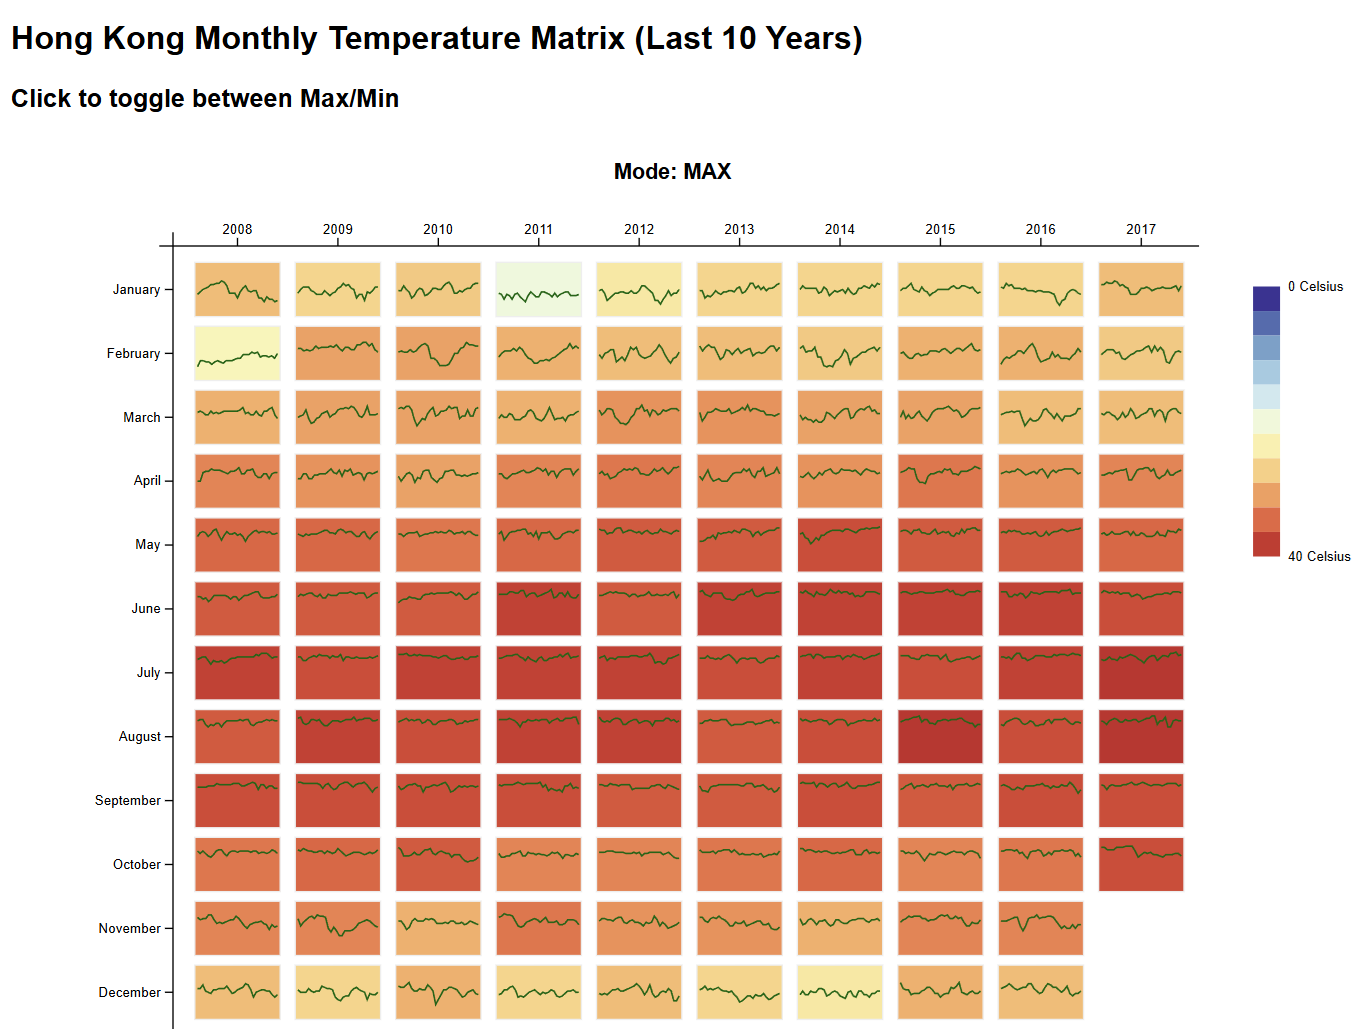
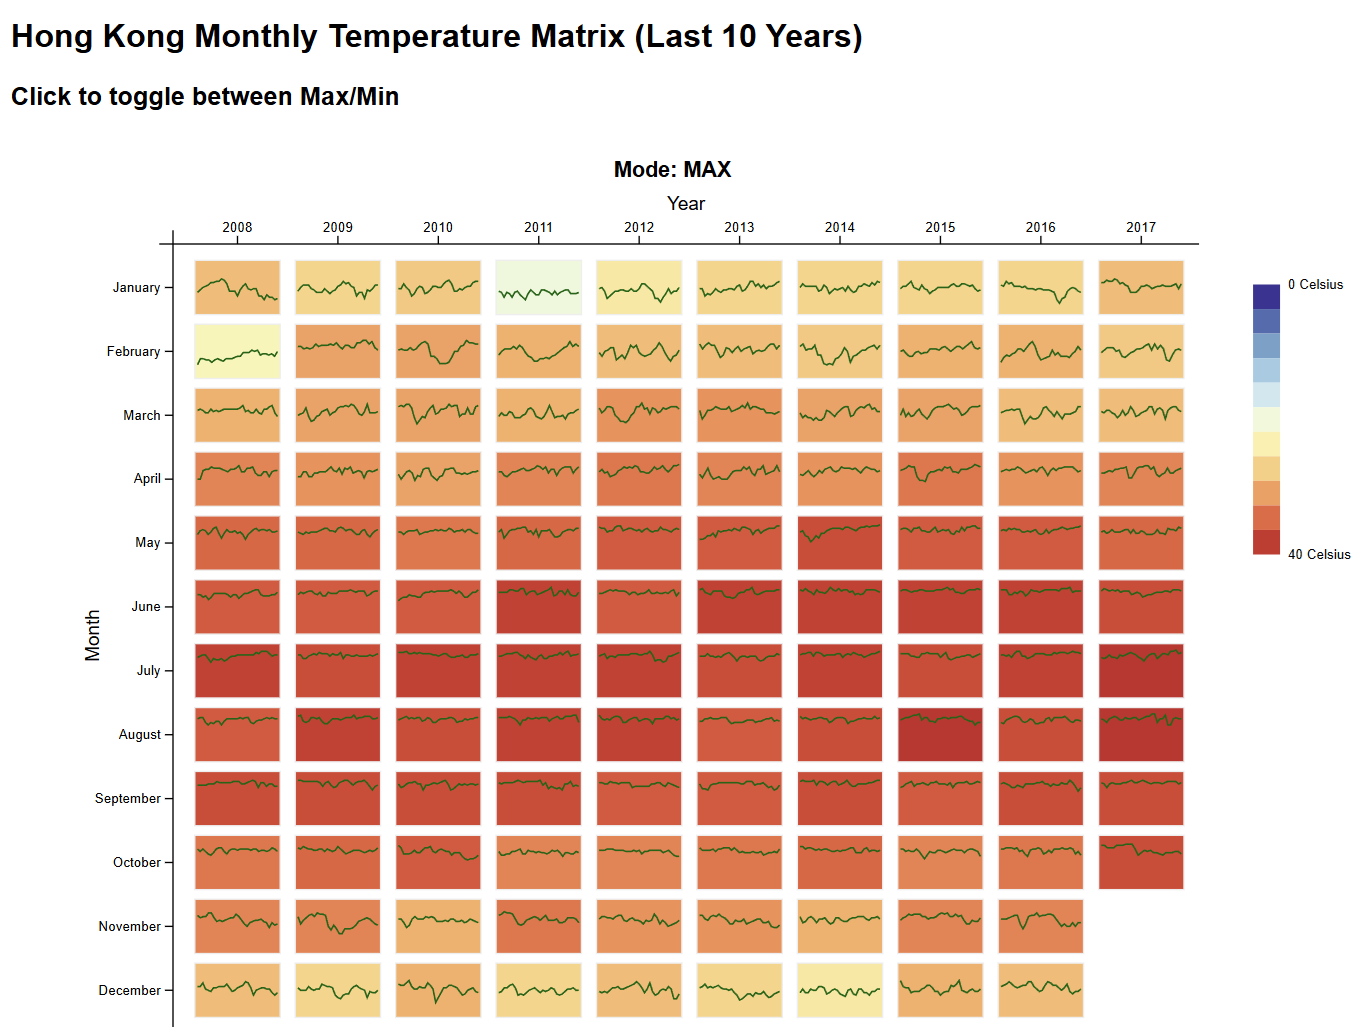
add axes names

diff --git a/script.js b/script.js
@@ -152,6 +152,7 @@ function renderAxes(scales) {
         .attr("y1", AXIS_OFFSET - axisExtension)
         .attr("y2", innerHeight)
         .attr("stroke", "black");
+    
 }
 
 // Grid Lines Rendering
@@ -182,6 +183,25 @@ function renderGridLines(scales) {
         .attr("y1", d => scales.yScale(d))
         .attr("y2", d => scales.yScale(d))
         .attr("stroke-width", 0.5);
+    
+    // X-axis label (Year)
+    svgContainer.append("text")
+        .attr("x", (AXIS_OFFSET + innerWidth) / 2)
+        .attr("y", AXIS_OFFSET - 25)
+        .attr("text-anchor", "middle")
+        .attr("font-size", "14px")
+        .attr("fill", "black")
+        .text("Year");
+
+    // Y-axis label (Month)
+    svgContainer.append("text")
+        .attr("transform", "rotate(-90)")
+        .attr("x", -(AXIS_OFFSET + innerHeight) / 2)
+        .attr("y", AXIS_OFFSET - 55)
+        .attr("text-anchor", "middle")
+        .attr("font-size", "14px")
+        .attr("fill", "black")
+        .text("Month");
 }
 
 // Heatmap Cells Rendering
